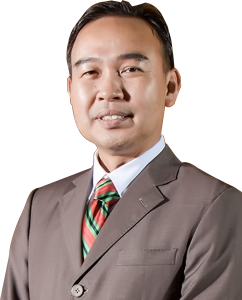
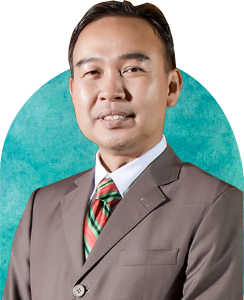
updated organization.html

diff --git a/flr/templates/organization.html b/flr/templates/organization.html
@@ -3,46 +3,108 @@
 {% load static %}
 
 {% block content %}
+<div class="team-background">
+	<div class="team-container">
+		<h3 class="font-weight-bold my-4 text-center text-white">Our Team</h3>
+		<div class="row justify-content-center mb-4">
+			<div class="col-sm-4 rounded bg-white">
+				<div class="mt-4 p-0 text-left">
+					<img class="w-100" src="{% static 'img/df.png' %}">
+				</div>
+				<div class="p-2">
+					<h4>Datu Hamden Hj Mohammad</h4>
+					<p class="team-text">Chairman</p>
+				</div>
+			</div>
+		</div>
 
-<div class="team-container">
-	<h3 class="my-4 font-weight-bold">Our Team</h3>
-	<div class="row border rounded shadow gradient-div df">
-		<div class="col-sm-6 mt-4 p-0 text-left">
-			<img  src="{% static 'img/df.png' %}">
-		</div>
-		<div class="col-sm-6 p-4">
-			<h3>Datu Hamden bin Haji Mohammad</h3>
-			<p class="team-text">Chairman</p>
-		</div>
-	</div>
-	<div class="row border rounded shadow mt-4 text-right gradient-div df">
-		<div class="col-sm-6 p-4">
-			<h3>Jack Liam</h3>
-			<p class="team-text">Co-chairman</p>
-		</div>
-		<div class="col-sm-6 mt-4 p-0 text-right">
-			<img src="{% static 'img/ddf.png' %}">
-		</div>
-	</div>
-	<div class="row border rounded shadow mt-4 text-right gradient-div df">
-		<div class="col-sm-6 p-4">
-			<h3>Zarina Haji Shebli</h3>
-			<p class="team-text">Secretariat</p>
-		</div>
-		<div class="col-sm-6 mt-4 p-0 text-right">
-			<img src="{% static 'img/rifd.png' %}">
+		<div class="row d-flex justify-content-between">
+			<div class="col-sm-4 rounded mb-4 bg-white">
+				<div class="mt-4 p-0 text-right">
+					<img class="w-100" src="{% static 'img/ddf.png' %}">
+				</div>
+				<div class="p-2">
+					<h4>Jack Liam</h4>
+					<p class="team-text">Co-Chairman</p>
+				</div>
+			</div>
+
+			<div class="col-sm-4 rounded mb-4 bg-white">
+				<div class="mt-4 p-0 text-right">
+					<img class="w-100" src="{% static 'img/rifd.png' %}">
+				</div>
+				<div class="p-2">
+					<h4>Zarina Haji Shebli</h4>
+					<p class="team-text">Secretariat</p>
+				</div>
+			</div>
 		</div>
 	</div>
 </div>
 
-<div class="container">
-	<div class="row">
-		<div class="col">
-			<div class="mx-auto">
-				<!--Image goes here -->
+<div class="container my-4">
+	<div class="container-fluid border shadow rounded p-4">
+		<div class="row">
+			<div class="col-lg-3 col-md-6 mb-lg-0 mb-5">
+				<h4>1. Secretariat</h4>
+				<div class="mx-auto text-center">
+					
+				</div>
+				<p>Restoration and Industrial Forest Division</p>
 			</div>
-			<h4>Division</h4>
-			<p>Functions</p>
+			<div class="col-lg-3 col-md-6 mb-lg-0 mb-5">
+				<div class="mx-auto">
+					<!--Img goes here -->	
+				</div>
+				<h4>2. Research and Development</h4>
+				<div class="mx-auto">
+	
+				</div>
+				<p>Research Development and Innovation Division</p>
+			</div>
+			<div class="col-lg-3 col-md-6 mb-lg-0 mb-5">
+				<div class="mx-auto">
+					<!-- Img goes here -->
+				</div>
+				<h4>3. Promotion and Event</h4>
+				<p>Corporate and Media Unit</p>
+			</div>
+			<div class="col-lg-3 col-md-6 mb-lg-0 mb-5">
+				<div class="mx-auto">
+					<!-- Img goes here -->
+				</div>
+				<h4>4. Nursery Management</h4>
+				<p>Restoration and Industrial Forest Division</p>
+			</div>
+			<div class="col-lg-3 col-md-6 mb-lg-0 mb-5">
+				<div class="mx-auto">
+					<!--Img goes here -->
+				</div>
+				<h4>5. Planting and Monitoring</h4>
+				<p>Restoration and Industrial Forest Division</p>
+				<p>Regional Forest Office</p>
+			</div>
+			<div class="col-lg-3 col-md-6 mb-lg-0 mb-5">
+				<div class="mx-auto">
+					<!-- Img goes here -->
+				</div>
+				<h4>6. PFE Boundary Demarcation</h4>
+				<p>Constitution and Conservation Division</p>
+			</div>
+			<div class="col-lg-3 col-md-6 mb-lg-0 mb-5">
+				<div class="mx-auto">
+					<!-- Img goes here -->
+				</div>
+				<h4>7. Communication, Education and Public Awareness (CEPA)</h4>
+				<p>Social Forestry Division</p>
+			</div>
+			<div class="col-lg-3 col-md-6 mb-lg-0 mb-5">
+				<div class="mx-auto">
+					<!-- Img goes here -->
+				</div>
+				<h4>8. Technology and Data Management</h4>
+				<p>Forest Technology and Geospatial</p>
+			</div>
 		</div>
 	</div>
 </div>

diff --git a/flr/static/css/main.css b/flr/static/css/main.css
@@ -351,10 +351,11 @@ ul {
 .team-text {
 	font-family: Helvetica;
 	font-size: 20px;
-	align-items: center;
 }
 
-.df {
-	color: #fff;
+.team-background {
+	background-image: url('/static/img/team-background.png');
+	background-repeat: no-repeat;
+	background-size: cover;
 }
 
